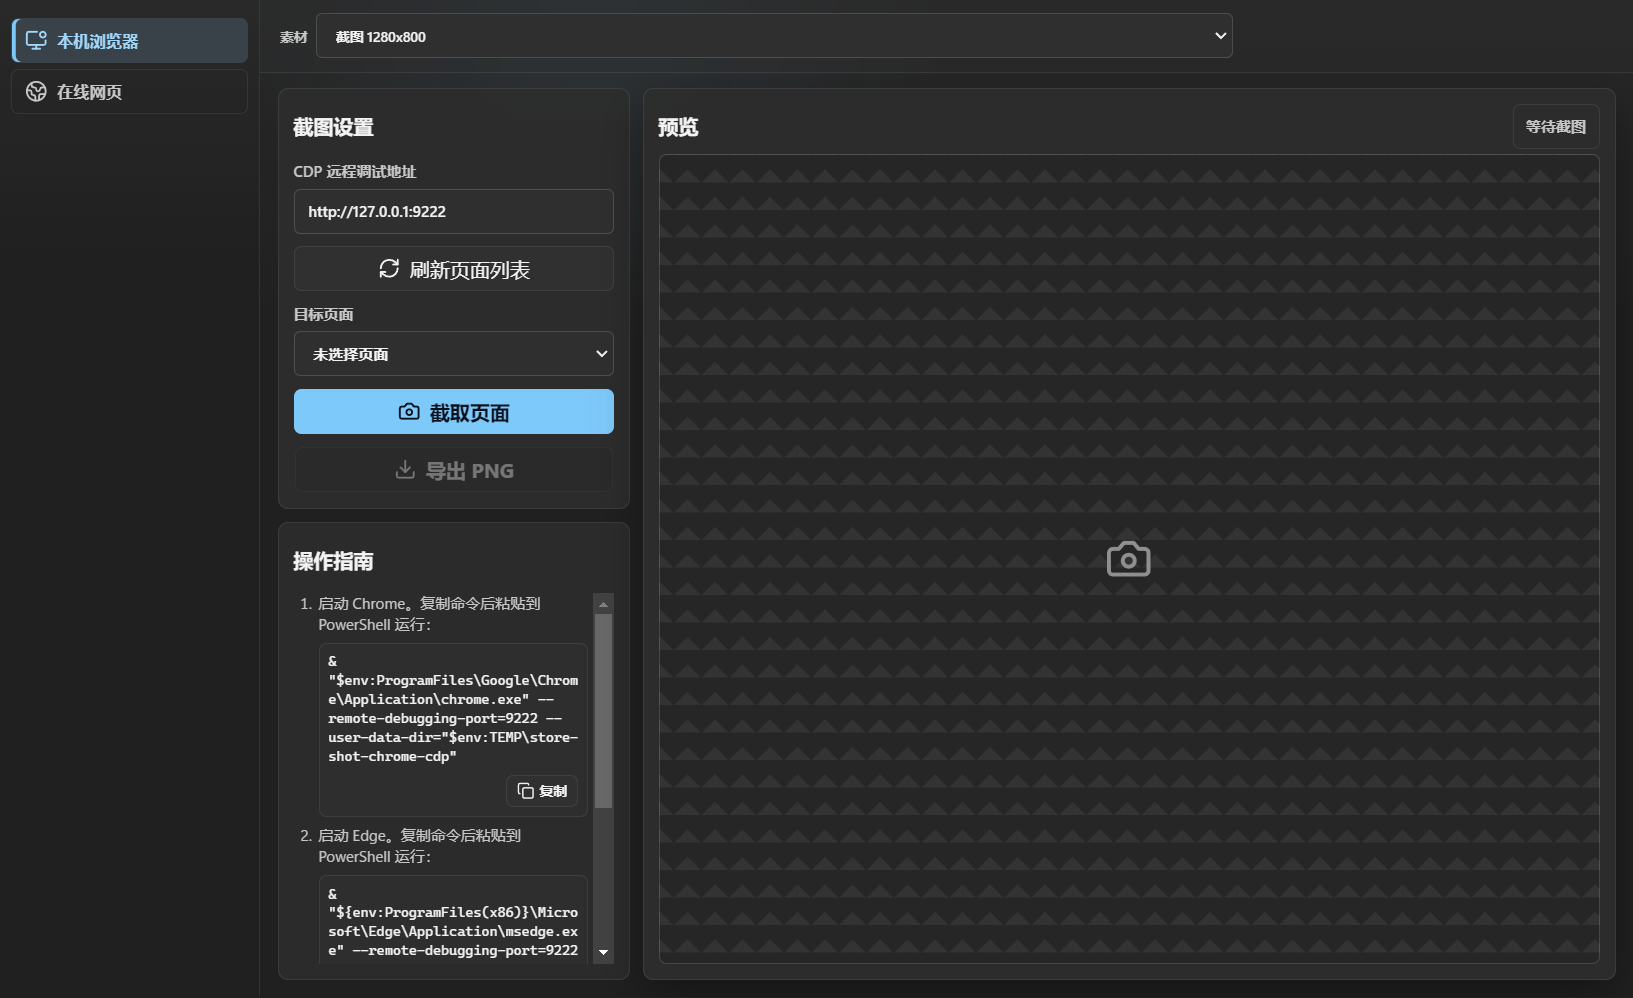
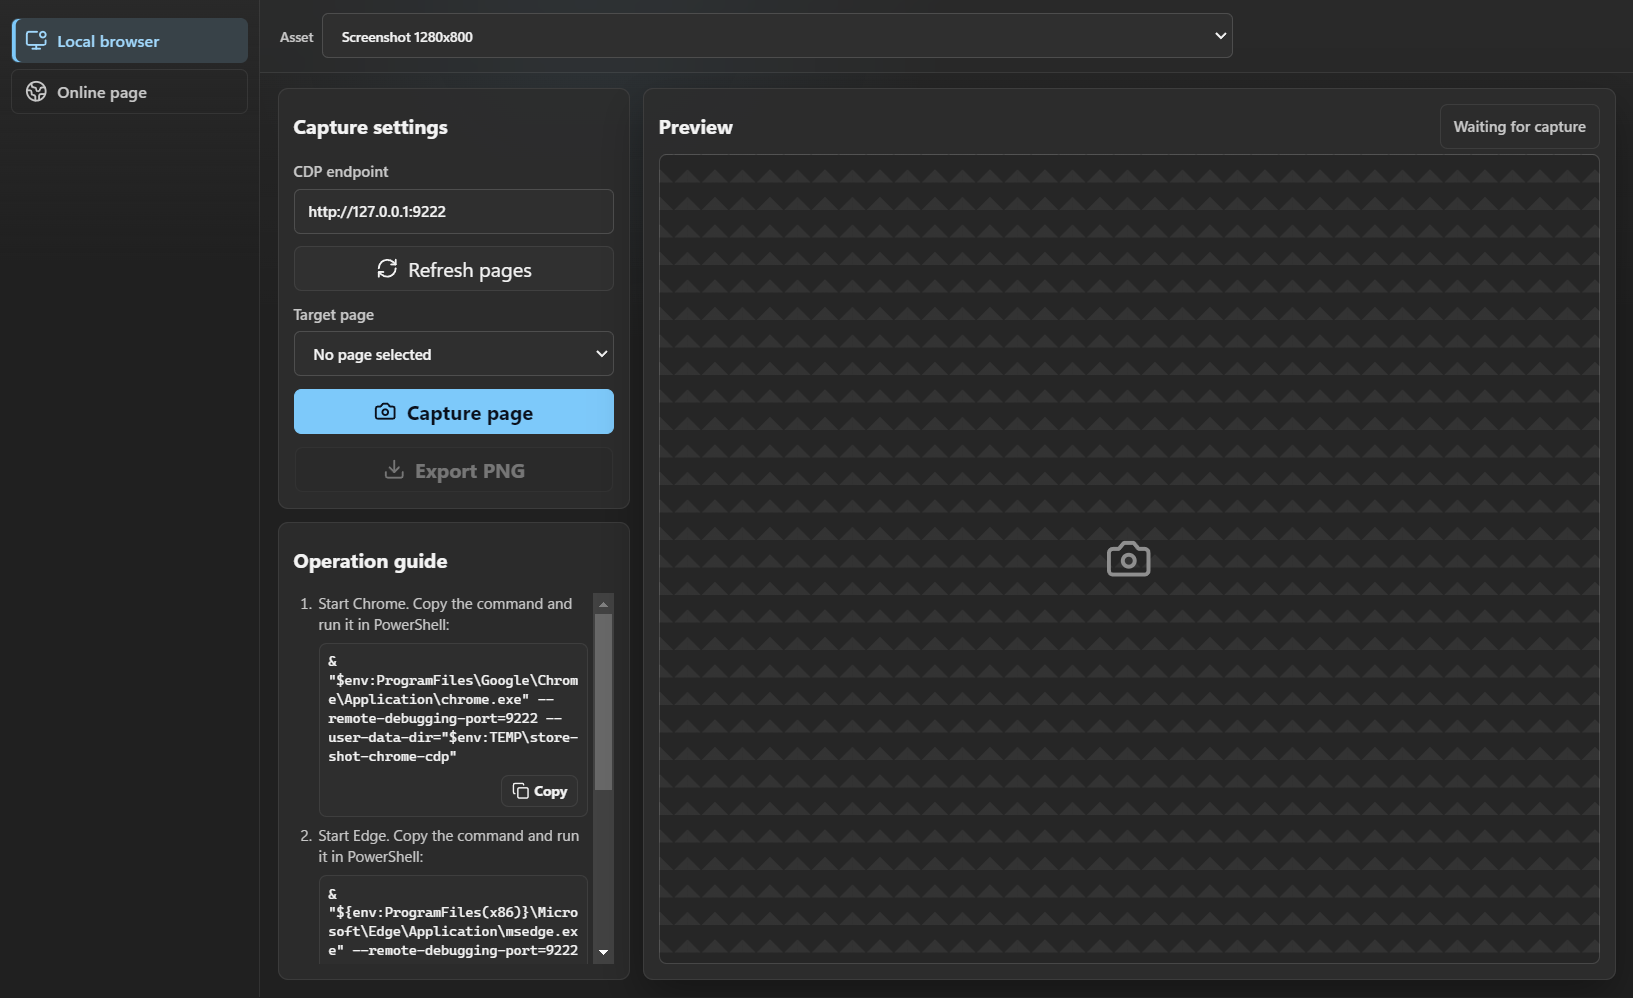
Use English screenshots in README

diff --git a/README.md b/README.md
@@ -2,7 +2,7 @@
 
 面向 Web 扩展开发者的桌面截图与 PNG 导出工具，用来生成 Chrome Web Store、Microsoft Edge Add-ons、Firefox AMO、Opera Add-ons 等商店页面需要的截图素材。
 
-![Web Extension Store Screenshot Tool 主界面](docs/screenshot.png)
+![Web Extension Store Screenshot Tool main window](docs/screenshot.png)
 
 ## 下载
 